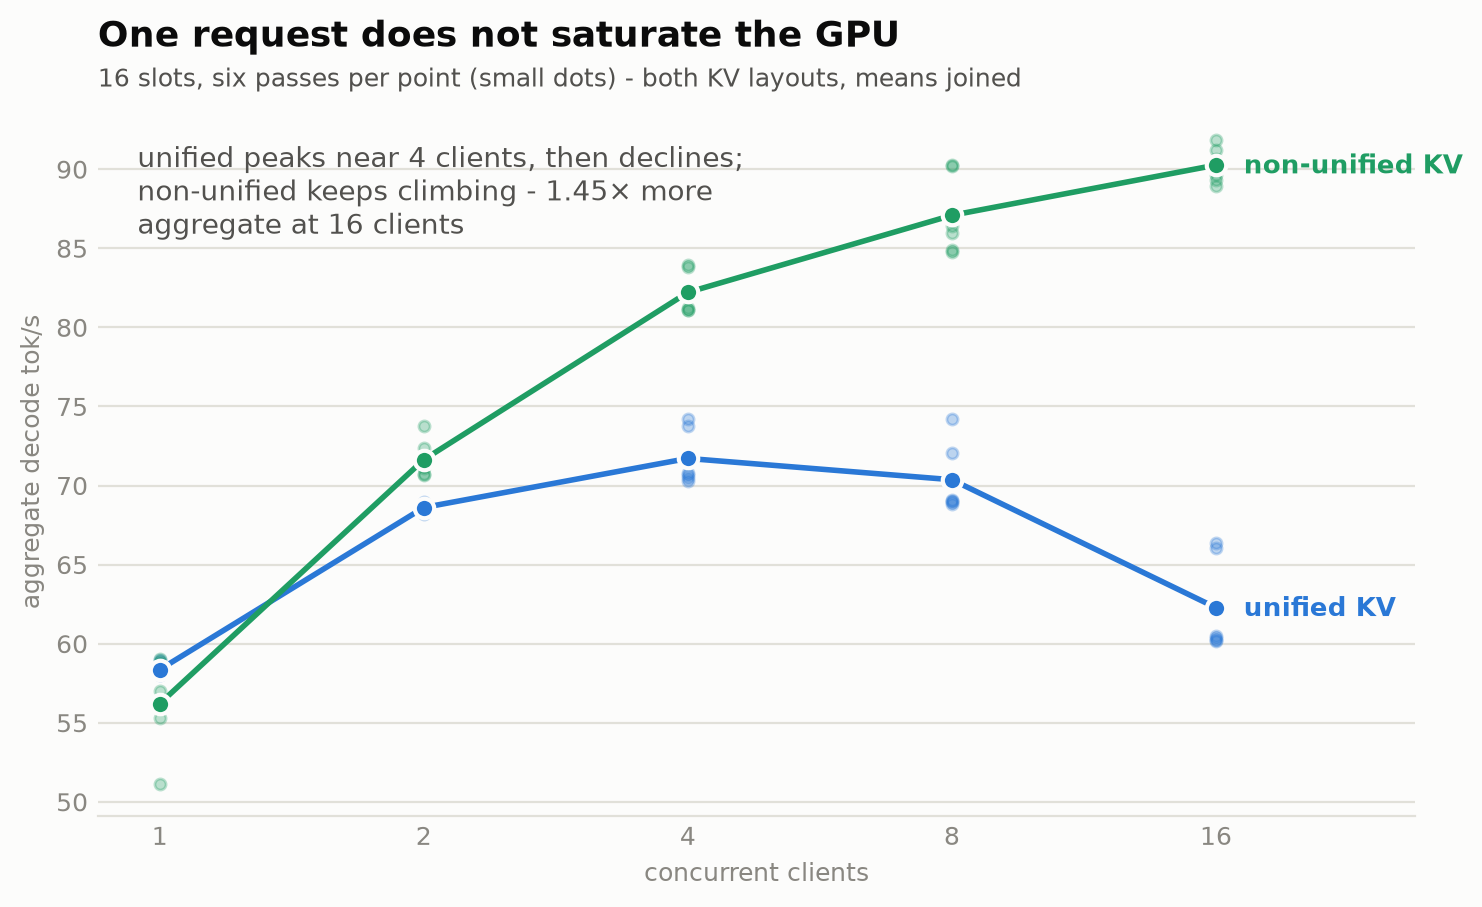
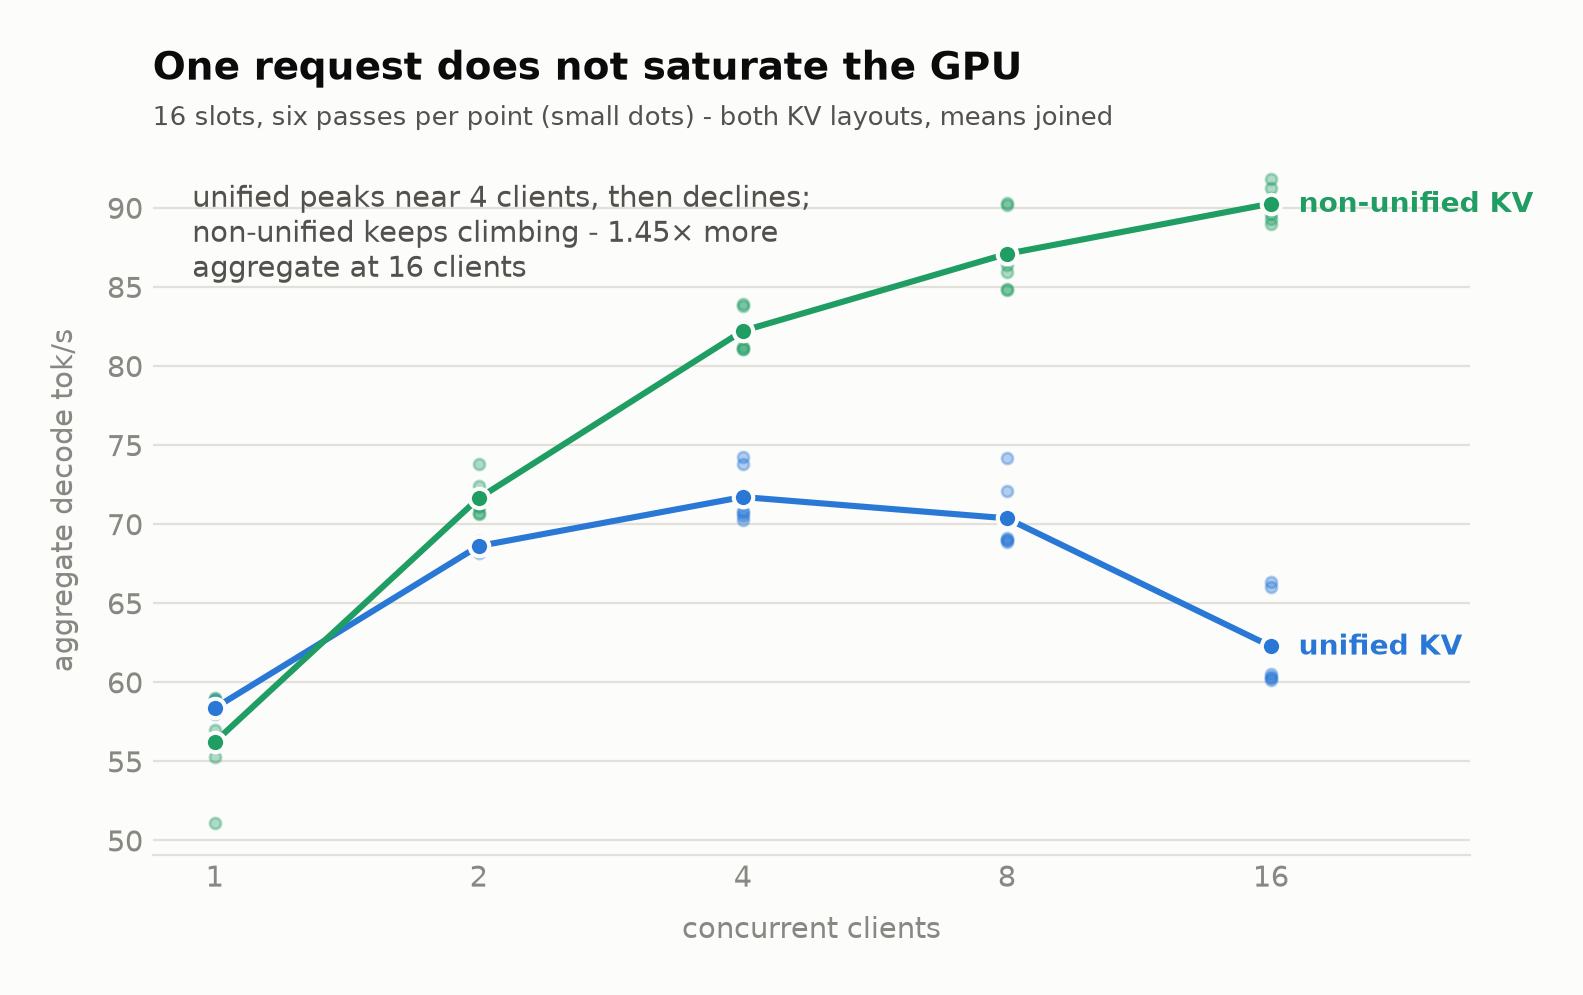
Updated graphs

diff --git a/benchmark/plot_results.py b/benchmark/plot_results.py
@@ -14,6 +14,9 @@ against the README tables.
   ple_placement.png     - the PLE lookup table on CPU against on GPU
   concurrency.png       - aggregate tok/s against concurrent clients, KV layouts
 
+Each chart is written twice: <name>.png on a light surface and <name>_dark.png
+for dark GitHub, selected in the README with a <picture> element.
+
 Regenerate after a rerun:  uv run benchmark/plot_results.py
 """
 
@@ -22,6 +25,7 @@ from __future__ import annotations
 import csv
 import json
 import re
+from math import log2
 from pathlib import Path
 
 import matplotlib
@@ -39,38 +43,50 @@ RESULTS = REPO / "results"
 # Palette shared with the DFlash and DSpark write-ups: blue carries the story,
 # green the second series, gray the reference. Identity never rides on color
 # alone - every chart names its ticks or lines and labels its values directly.
-BLUE = "#2a78d6"
-GREEN = "#1f9d63"
-GRAY = "#898781"
-SURFACE = "#fcfcfb"
-INK = "#0b0b0b"
-INK_2 = "#52514e"
-MUTED = "#898781"
-GRID = "#e1e0d9"
+LIGHT = dict(
+    blue="#2a78d6", green="#1f9d63", gray="#898781",
+    surface="#fcfcfb", ink="#0b0b0b", ink2="#52514e",
+    muted="#898781", grid="#e1e0d9",
+    ramp_lo=(0.78, 0.86, 0.95), ramp_hi=(0.05, 0.24, 0.44),
+)
+# Dark surface matches GitHub's dark theme. The tier ramp brightens with
+# capacity here (the largest tier must be the most visible on a dark ground),
+# where the light ramp deepens instead.
+DARK = dict(
+    blue="#4d96e8", green="#2fbf7f", gray="#8b949e",
+    surface="#0d1117", ink="#e6edf3", ink2="#9aa4b2",
+    muted="#8b949e", grid="#2d333b",
+    ramp_lo=(0.24, 0.31, 0.43), ramp_hi=(0.74, 0.87, 1.00),
+)
 
-# Ordinal ramp for the VRAM tiers, pale to deep as capacity grows.
-def _lerp(a, b, t):
-    return tuple(x + (y - x) * t for x, y in zip(a, b))
+P = LIGHT          # active palette, set per pass in main
+SUFFIX = ""        # "" or "_dark"
+VERBOSE = True     # print drawn values on the light pass only
 
-_LO = (0.78, 0.86, 0.95)
-_HI = (0.05, 0.24, 0.44)
 TIERS = [8, 16, 24, 32, 48, 96]
-TIER_COLOR = {c: _lerp(_LO, _HI, i / (len(TIERS) - 1)) for i, c in enumerate(TIERS)}
 TIER_NAME = {8: "3060 / 4060", 16: "4060 Ti", 24: "3090 / 4090",
              32: "5090", 48: "2× 3090", 96: "PRO 6000"}
 
-DPI = 200
+
+def _lerp(a, b, t):
+    return tuple(x + (y - x) * t for x, y in zip(a, b))
+
+
+def tier_color(c):
+    i = TIERS.index(c)
+    return _lerp(P["ramp_lo"], P["ramp_hi"], i / (len(TIERS) - 1))
 
 
 def style_axes(ax, y_grid=True):
-    ax.set_facecolor(SURFACE)
+    ax.set_facecolor(P["surface"])
     for side in ("top", "right", "left"):
         ax.spines[side].set_visible(False)
-    ax.spines["bottom"].set_color(GRID)
+    ax.spines["bottom"].set_color(P["grid"])
     if y_grid:
-        ax.grid(axis="y", color=GRID, linewidth=0.8)
+        ax.grid(axis="y", color=P["grid"], linewidth=0.8)
         ax.set_axisbelow(True)
-    ax.tick_params(colors=MUTED, labelcolor=MUTED, length=0, labelsize=9)
+    ax.tick_params(colors=P["muted"], labelcolor=P["muted"], length=0,
+                   labelsize=10.5)
 
 
 def bar_round(ax, x, h, w, color):
@@ -87,14 +103,29 @@ def bar_round(ax, x, h, w, color):
 
 
 def titles(ax, title, sub):
-    ax.set_title(title, color=INK, fontsize=13, fontweight="bold", loc="left", pad=22)
-    ax.text(0, 1.03, sub, transform=ax.transAxes, fontsize=9, color=INK_2)
+    ax.set_title(title, color=P["ink"], fontsize=14, fontweight="bold",
+                 loc="left", pad=24)
+    ax.text(0, 1.03, sub, transform=ax.transAxes, fontsize=9.5, color=P["ink2"])
+
+
+def xlabel(ax, text):
+    ax.set_xlabel(text, color=P["muted"], fontsize=10.5, labelpad=8)
+
+
+def ylabel(ax, text):
+    ax.set_ylabel(text, color=P["muted"], fontsize=10.5, labelpad=10)
+
+
+def say(*a):
+    if VERBOSE:
+        print(*a)
 
 
 def save(fig, name):
     ASSETS.mkdir(exist_ok=True)
-    out = ASSETS / f"{name}.png"
-    fig.savefig(out, facecolor=SURFACE, bbox_inches="tight")
+    out = ASSETS / f"{name}{SUFFIX}.png"
+    fig.savefig(out, facecolor=P["surface"], bbox_inches="tight",
+                pad_inches=0.25)
     plt.close(fig)
     print(f"wrote {out.relative_to(REPO)}")
 
@@ -123,71 +154,90 @@ def chart_ladder_decode():
     rows = ladder_rows()
     at2k = {r["cap"]: r["decode_tps"] for r in rows if r["length"] == 2048}
     cpu = cpu_decode_2k()
-    vals = [("no GPU", cpu, GRAY)] + [
-        (f"{c} GiB", at2k[c], TIER_COLOR[c]) for c in TIERS]
+    vals = [("no GPU", cpu, P["gray"])] + [
+        (f"{c} GiB", at2k[c], tier_color(c)) for c in TIERS]
 
-    fig, ax = plt.subplots(figsize=(8.5, 4.6), dpi=DPI)
-    fig.patch.set_facecolor(SURFACE)
+    fig, ax = plt.subplots(figsize=(8.5, 4.6), dpi=200)
+    fig.patch.set_facecolor(P["surface"])
     ax.set_ylim(0, max(v for _, v, _ in vals) * 1.18)
     style_axes(ax)
     for i, (label, v, color) in enumerate(vals):
         bar_round(ax, i, v, 0.62, color)
         ax.text(i, v + ax.get_ylim()[1] * 0.02, f"{v:.1f}", ha="center",
-                fontsize=11, color=INK, fontweight="bold")
+                fontsize=12, color=P["ink"], fontweight="bold")
     ax.set_xticks(range(len(vals)))
     names = ["CPU only"] + [TIER_NAME[c] for c in TIERS]
     ax.set_xticklabels([f"{l}\n{n}" for (l, _, _), n in zip(vals, names)])
-    ax.set_ylabel("decode tok/s", color=MUTED, fontsize=9)
+    ylabel(ax, "decode tok/s")
     titles(ax, "One 125B model, from no GPU to 96 GiB",
            "decode at a 2,048-token prompt - VRAM software-capped, expert layers move to system RAM until the model fits")
-    print("  ladder 2K decode:", {l: round(v, 1) for l, v, _ in vals})
+    say("  ladder 2K decode:", {l: round(v, 1) for l, v, _ in vals})
     save(fig, "ladder_decode")
+
+
+# Canonical prompt lengths for the context chart. Points sit at equal steps so
+# every part of the sweep gets the same width - a log axis crams 128K -> 245K
+# into a sliver while 256 -> 2K gets three times the room, which reads as if
+# the axis ran backwards. Off-grid lengths (12,288 and 122,880) interpolate
+# between their neighbors.
+CTX_GRID = [256, 2048, 8192, 32768, 65536, 131072, 245760]
+CTX_LABEL = ["256", "2K", "8K", "32K", "64K", "128K", "245K"]
+
+
+def ctx_pos(x):
+    if x <= CTX_GRID[0]:
+        return 0.0
+    for i in range(len(CTX_GRID) - 1):
+        a, b = CTX_GRID[i], CTX_GRID[i + 1]
+        if x <= b:
+            return i + (log2(x) - log2(a)) / (log2(b) - log2(a))
+    return float(len(CTX_GRID) - 1)
 
 
 def chart_ladder_vs_context():
     rows = ladder_rows()
-    fig, ax = plt.subplots(figsize=(8.5, 4.8), dpi=DPI)
-    fig.patch.set_facecolor(SURFACE)
+    fig, ax = plt.subplots(figsize=(9.0, 5.0), dpi=200)
+    fig.patch.set_facecolor(P["surface"])
     style_axes(ax)
-    ax.set_xscale("log", base=2)
     for c in TIERS:
         pts = sorted((r["length"], r["decode_tps"]) for r in rows if r["cap"] == c)
-        xs, ys = zip(*pts)
-        ax.plot(xs, ys, color=TIER_COLOR[c], linewidth=2,
+        xs = [ctx_pos(x) for x, _ in pts]
+        ys = [y for _, y in pts]
+        ax.plot(xs, ys, color=tier_color(c), linewidth=2.2,
                 solid_capstyle="round", zorder=3)
-        ax.plot(xs, ys, "o", color=TIER_COLOR[c], markersize=6,
-                markeredgecolor=SURFACE, markeredgewidth=1.5, zorder=4,
+        ax.plot(xs, ys, "o", color=tier_color(c), markersize=6.5,
+                markeredgecolor=P["surface"], markeredgewidth=1.5, zorder=4,
                 label=f"{c} GiB")
     # The lines converge on the right - the chart's point - so end labels would
     # pile up there. A legend, largest tier first, names them instead.
     handles, labels = ax.get_legend_handles_labels()
     ax.legend(handles[::-1], labels[::-1], loc="lower left", frameon=False,
-              fontsize=9, labelcolor=INK_2, ncols=2, columnspacing=1.2,
+              fontsize=10, labelcolor=P["ink2"], ncols=2, columnspacing=1.2,
               handletextpad=0.4)
-    ticks = [256, 2048, 8192, 32768, 65536, 131072, 245760]
-    ax.set_xticks(ticks)
-    ax.set_xticklabels(["256", "2K", "8K", "32K", "64K", "128K", "245K"])
-    ax.set_xlim(220, 300000)
-    ax.set_xlabel("prompt tokens", color=MUTED, fontsize=9)
-    ax.set_ylabel("decode tok/s", color=MUTED, fontsize=9)
+    ax.set_xticks(range(len(CTX_GRID)))
+    ax.set_xticklabels(CTX_LABEL)
+    ax.set_xlim(-0.25, len(CTX_GRID) - 0.75)
+    ax.set_ylim(0, 120)
+    xlabel(ax, "prompt tokens")
+    ylabel(ax, "decode tok/s")
     d = {(r["cap"], r["length"]): r["decode_tps"] for r in rows}
     lead2k = d[(96, 2048)] / d[(24, 2048)]
     lead245 = d[(96, 245760)] / d[(24, 245760)]
     ax.text(0.985, 0.955,
             f"96 GiB leads 24 GiB by {lead2k:.1f}× at 2K,\nonly {lead245:.2f}× at 245K",
-            transform=ax.transAxes, ha="right", va="top", fontsize=10,
-            color=INK_2)
+            transform=ax.transAxes, ha="right", va="top", fontsize=10.5,
+            color=P["ink2"])
     titles(ax, "The tiers converge as the prompt grows",
            "every tier pays for long context, and the fastest tier pays most")
-    print(f"  convergence: {lead2k:.2f}x at 2K -> {lead245:.2f}x at 245K")
+    say(f"  convergence: {lead2k:.2f}x at 2K -> {lead245:.2f}x at 245K")
     save(fig, "ladder_vs_context")
 
 
 def chart_ple_placement():
     s = json.loads((RESULTS / "corrections" / "20260830T145932Z_PLE-01" /
                     "summary.json").read_text())
-    fig, axes = plt.subplots(1, 2, figsize=(8.5, 4.2), dpi=DPI)
-    fig.patch.set_facecolor(SURFACE)
+    fig, axes = plt.subplots(1, 2, figsize=(8.5, 4.2), dpi=200)
+    fig.patch.set_facecolor(P["surface"])
     panels = [
         (axes[0], "Decode tok/s", s["cpu_decode_med"], s["cuda0_decode_med"],
          f"{s['decode_ratio']:.1f}× slower\non the GPU"),
@@ -198,70 +248,74 @@ def chart_ple_placement():
         ax.set_ylim(0, ram * 1.22)
         ax.set_xlim(-0.65, 1.65)
         style_axes(ax)
-        bar_round(ax, 0, ram, 0.55, BLUE)
-        bar_round(ax, 1, gpu, 0.55, GRAY)
+        bar_round(ax, 0, ram, 0.55, P["blue"])
+        bar_round(ax, 1, gpu, 0.55, P["gray"])
         for i, v in ((0, ram), (1, gpu)):
             txt = f"{v:,.2f}" if v < 10 else f"{v:,.1f}"
             ax.text(i, v + ax.get_ylim()[1] * 0.025, txt, ha="center",
-                    fontsize=11, color=INK, fontweight="bold")
+                    fontsize=12, color=P["ink"], fontweight="bold")
         ax.set_xticks([0, 1])
         ax.set_xticklabels(["table in\nsystem RAM", "table on\nthe GPU"])
-        ax.set_title(name, color=INK, fontsize=11, fontweight="bold",
+        ax.set_title(name, color=P["ink"], fontsize=11.5, fontweight="bold",
                      loc="left", pad=10)
         ax.text(0.97, 0.72, note, transform=ax.transAxes, ha="right",
-                fontsize=10, color=INK_2)
+                fontsize=10.5, color=P["ink2"])
     fig.suptitle("The faster memory loses: the 27.2 GiB lookup table belongs in RAM",
-                 color=INK, fontsize=13, fontweight="bold", x=0.02, ha="left")
+                 color=P["ink"], fontsize=13.5, fontweight="bold", x=0.02,
+                 ha="left")
     fig.text(0.02, 0.90, "same model, same context - the only change is "
-             "-ot per_layer_token_embd=CPU or =CUDA0", fontsize=9, color=INK_2)
+             "-ot per_layer_token_embd=CPU or =CUDA0", fontsize=9.5,
+             color=P["ink2"])
     fig.subplots_adjust(top=0.78, wspace=0.28)
-    print(f"  PLE decode {s['cpu_decode_med']} vs {s['cuda0_decode_med']}"
-          f" ({s['decode_ratio']}x), prefill {s['cpu_prefill_med']} vs"
-          f" {s['cuda0_prefill_med']} ({s['prefill_ratio']}x)")
+    say(f"  PLE decode {s['cpu_decode_med']} vs {s['cuda0_decode_med']}"
+        f" ({s['decode_ratio']}x), prefill {s['cpu_prefill_med']} vs"
+        f" {s['cuda0_prefill_med']} ({s['prefill_ratio']}x)")
     save(fig, "ple_placement")
 
 
 def chart_concurrency():
     s = json.loads((RESULTS / "corrections" / "20260830T193552Z_CONC-01" /
                     "summary.json").read_text())["aggregate"]
-    series = [("unified KV", "unified", BLUE), ("non-unified KV", "non-unified", GREEN)]
-    fig, ax = plt.subplots(figsize=(8.5, 4.6), dpi=DPI)
-    fig.patch.set_facecolor(SURFACE)
+    series = [("unified KV", "unified", P["blue"]),
+              ("non-unified KV", "non-unified", P["green"])]
+    fig, ax = plt.subplots(figsize=(8.5, 4.6), dpi=200)
+    fig.patch.set_facecolor(P["surface"])
     style_axes(ax)
     ax.set_xscale("log", base=2)
-    gain = {}
+    peak = {}
     for label, key, color in series:
         levels = sorted(int(k) for k in s[key])
         means = [sum(s[key][str(l)]) / len(s[key][str(l)]) for l in levels]
         for l in levels:
             ax.plot([l] * len(s[key][str(l)]), s[key][str(l)], "o",
-                    color=color, markersize=4, alpha=0.30, zorder=2)
-        ax.plot(levels, means, color=color, linewidth=2, zorder=3,
+                    color=color, markersize=4, alpha=0.35, zorder=2)
+        ax.plot(levels, means, color=color, linewidth=2.2, zorder=3,
                 solid_capstyle="round")
         ax.plot(levels, means, "o", color=color, markersize=7,
-                markeredgecolor=SURFACE, markeredgewidth=1.5, zorder=4)
+                markeredgecolor=P["surface"], markeredgewidth=1.5, zorder=4)
         ax.annotate(label, (levels[-1], means[-1]), textcoords="offset points",
-                    xytext=(10, -3), fontsize=9.5, color=color, fontweight="bold")
-        gain[key] = means[-1]
-        print(f"  {key}: c=1 {means[0]:.1f} -> c=16 {means[-1]:.1f}"
-              f" ({means[-1] / means[0]:.2f}x), reps={len(s[key]['1'])}")
+                    xytext=(10, -3), fontsize=10, color=color, fontweight="bold")
+        peak[key] = means[-1]
+        say(f"  {key}: c=1 {means[0]:.1f} -> c=16 {means[-1]:.1f}"
+            f" ({means[-1] / means[0]:.2f}x), reps={len(s[key]['1'])}")
     ax.set_xticks([1, 2, 4, 8, 16])
     ax.set_xticklabels(["1", "2", "4", "8", "16"])
     ax.set_xlim(0.85, 27)
-    ax.set_xlabel("concurrent clients", color=MUTED, fontsize=9)
-    ax.set_ylabel("aggregate decode tok/s", color=MUTED, fontsize=9)
+    xlabel(ax, "concurrent clients")
+    ylabel(ax, "aggregate decode tok/s")
     ax.text(0.03, 0.95, "unified peaks near 4 clients, then declines;\n"
             "non-unified keeps climbing - "
-            f"{gain['non-unified'] / gain['unified']:.2f}× more\n"
+            f"{peak['non-unified'] / peak['unified']:.2f}× more\n"
             "aggregate at 16 clients", transform=ax.transAxes, va="top",
-            fontsize=10, color=INK_2)
+            fontsize=10.5, color=P["ink2"])
     titles(ax, "One request does not saturate the GPU",
            "16 slots, six passes per point (small dots) - both KV layouts, means joined")
     save(fig, "concurrency")
 
 
 if __name__ == "__main__":
-    chart_ladder_decode()
-    chart_ladder_vs_context()
-    chart_ple_placement()
-    chart_concurrency()
+    for P, SUFFIX, VERBOSE in ((LIGHT, "", True), (DARK, "_dark", False)):
+        chart_ladder_decode()
+        chart_ladder_vs_context()
+        chart_ple_placement()
+        chart_concurrency()

diff --git a/README.md b/README.md
@@ -11,7 +11,10 @@ to decode. The largest free speed lever is not the card, it is
 model reaches **36 tok/s on an 8 GB card** and **8.5 tok/s with no GPU**. A
 larger microbatch buys **+30.8% prefill for about 1 GiB of VRAM**.
 
-![One 125B model, from no GPU to 96 GiB](assets/ladder_decode.png)
+<picture>
+  <source media="(prefers-color-scheme: dark)" srcset="assets/ladder_decode_dark.png">
+  <img alt="One 125B model, from no GPU to 96 GiB" src="assets/ladder_decode.png">
+</picture>
 
 The full write-up, with a diagram per result and every limit stated, is
 [`report.html`](report.html) — open it in a browser.
@@ -173,7 +176,10 @@ flowchart LR
 at a 2,048-token prompt, context 32,768 in both arms (the GPU placement does not
 fit 262,144 with all expert layers on the card).
 
-![The faster memory loses this one](assets/ple_placement.png)
+<picture>
+  <source media="(prefers-color-scheme: dark)" srcset="assets/ple_placement_dark.png">
+  <img alt="The faster memory loses this one" src="assets/ple_placement.png">
+</picture>
 
 | PLE placement | GPU memory | Host memory | Prefill tok/s | Decode tok/s |
 |---|---|---|---|---|
@@ -211,7 +217,10 @@ machine has, so they use mmap. Only 48 and 96 GiB run `--load-mode none`.
 decodes 2.8× faster than the 24 GiB tier; at 245,760 tokens the lead is 1.45×.
 Long context costs every tier, and the fastest tier most.
 
-![The tiers converge as the prompt grows](assets/ladder_vs_context.png)
+<picture>
+  <source media="(prefers-color-scheme: dark)" srcset="assets/ladder_vs_context_dark.png">
+  <img alt="The tiers converge as the prompt grows" src="assets/ladder_vs_context.png">
+</picture>
 
 `report.html` has the per-tier charts, all 38 measured points with TTFT, and the
 llama-bench cross-check. `results/tier_full/`, `results/cpu_only/`
@@ -286,7 +295,10 @@ Tensor-pipe activity runs 0.9% (8 GiB) to 13.3% (96 GiB); SM activity reaches
 same 16 slots — one shared pool, or 8,192 tokens per slot. Two server starts per
 layout, three sweeps each, so every cell is the mean of six samples.
 
-![Unified peaks at 4, non-unified climbs to 16](assets/concurrency.png)
+<picture>
+  <source media="(prefers-color-scheme: dark)" srcset="assets/concurrency_dark.png">
+  <img alt="Unified peaks at 4, non-unified climbs to 16" src="assets/concurrency.png">
+</picture>
 
 | Requests at once | Unified KV | Non-unified KV |
 |---|---|---|
